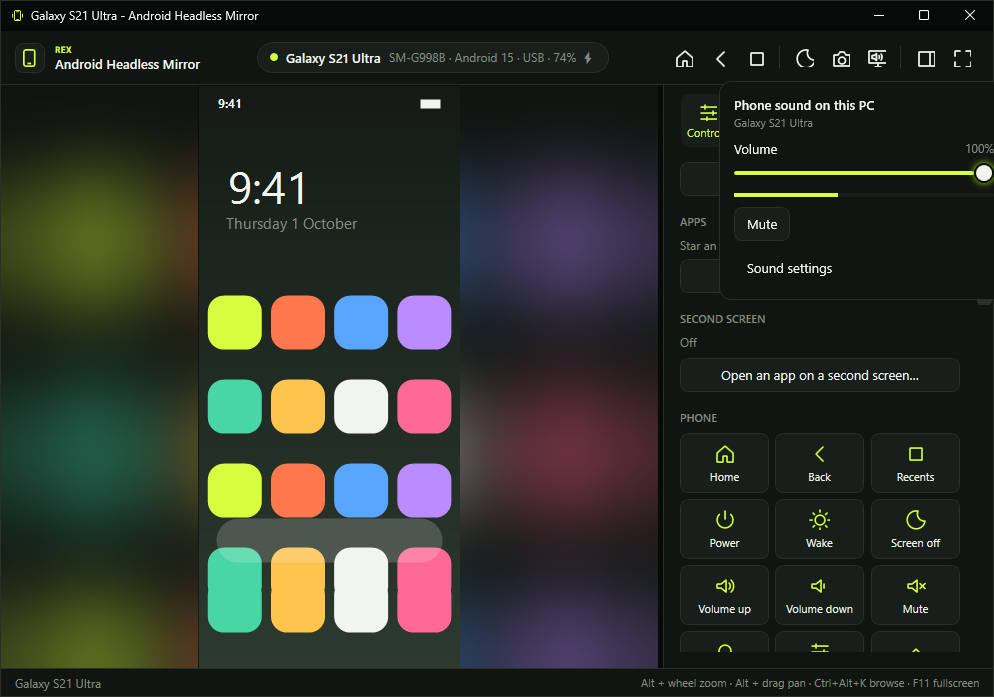
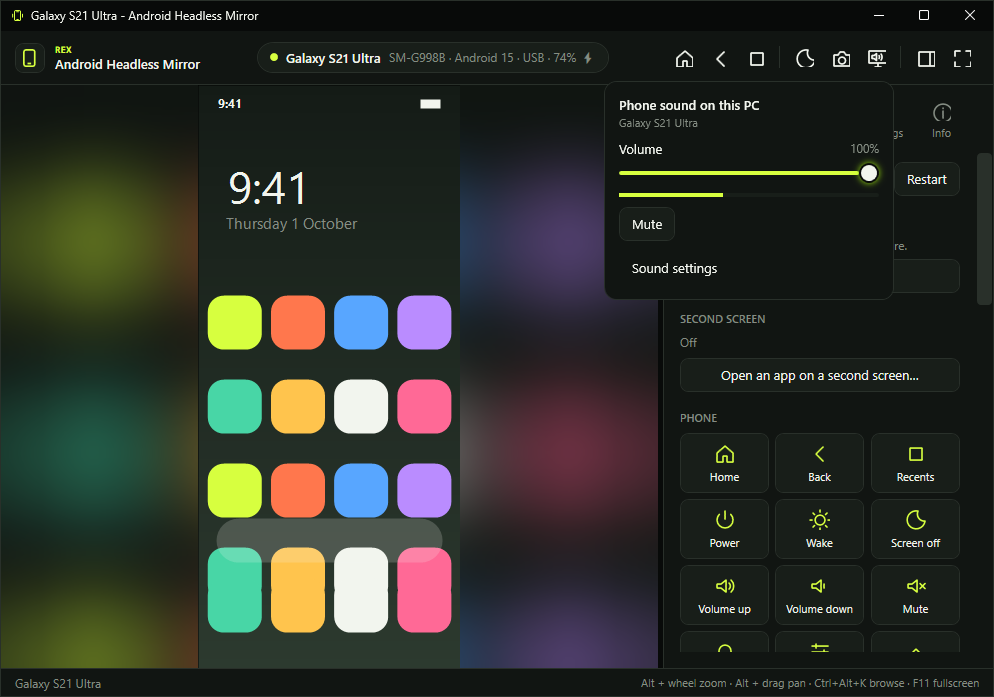
The sound panel opens inside the window, and the site has its pictures

diff --git a/docs/changelog.html b/docs/changelog.html
@@ -61,6 +61,12 @@
   </section>
   <div class="container page-body changelog">
 <!-- generated:changelog -->
+<h2 id="v2-16-1">2.16.1 - 2026-10-06</h2>
+<h3>Fixed</h3>
+<ul>
+<li>The phone sound panel opens inside the window, under its button, instead of hanging past the window's right edge.</li>
+<li>The website shows real pictures of the app, and describes every feature it has now.</li>
+</ul>
 <h2 id="v2-16-0">2.16.0 - 2026-10-06</h2>
 <h3>Added</h3>
 <ul>

diff --git a/CHANGELOG.md b/CHANGELOG.md
@@ -4,6 +4,14 @@ What changed in each version of Android Headless Mirror, newest first. Every ver
 was built and tested by CI; the installer for each published one is on the
 [releases page](https://github.com/tochi-mba/Android_Headless_Mirror/releases).
 
+## 2.16.1 - 2026-10-06
+
+### Fixed
+
+- The phone sound panel opens inside the window, under its button, instead of hanging past the
+  window's right edge.
+- The website shows real pictures of the app, and describes every feature it has now.
+
 ## 2.16.0 - 2026-10-06
 
 ### Added
